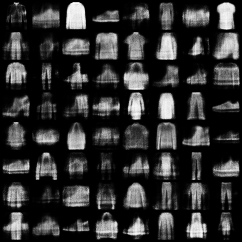
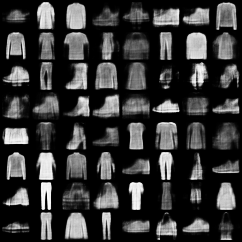
Fixed learning rate for VAE

diff --git a/main.py b/main.py
@@ -518,7 +518,7 @@ def attack_validate(params):
 # TODO: Allow this to be altered
 def adjust_learning_rate(epoch, params):
     """Sets the learning rate to the initial LR decayed by 10 every 30 epochs"""
-    lr = params['learning_rate'] * (0.33 ** (epoch // 5))
+    lr = params['learning_rate'] #params['learning_rate'] * (0.33 ** (epoch // 5)) TODO FIX ME
     for param_group in params['optimizer'].param_groups:
         param_group['lr'] = lr
 
